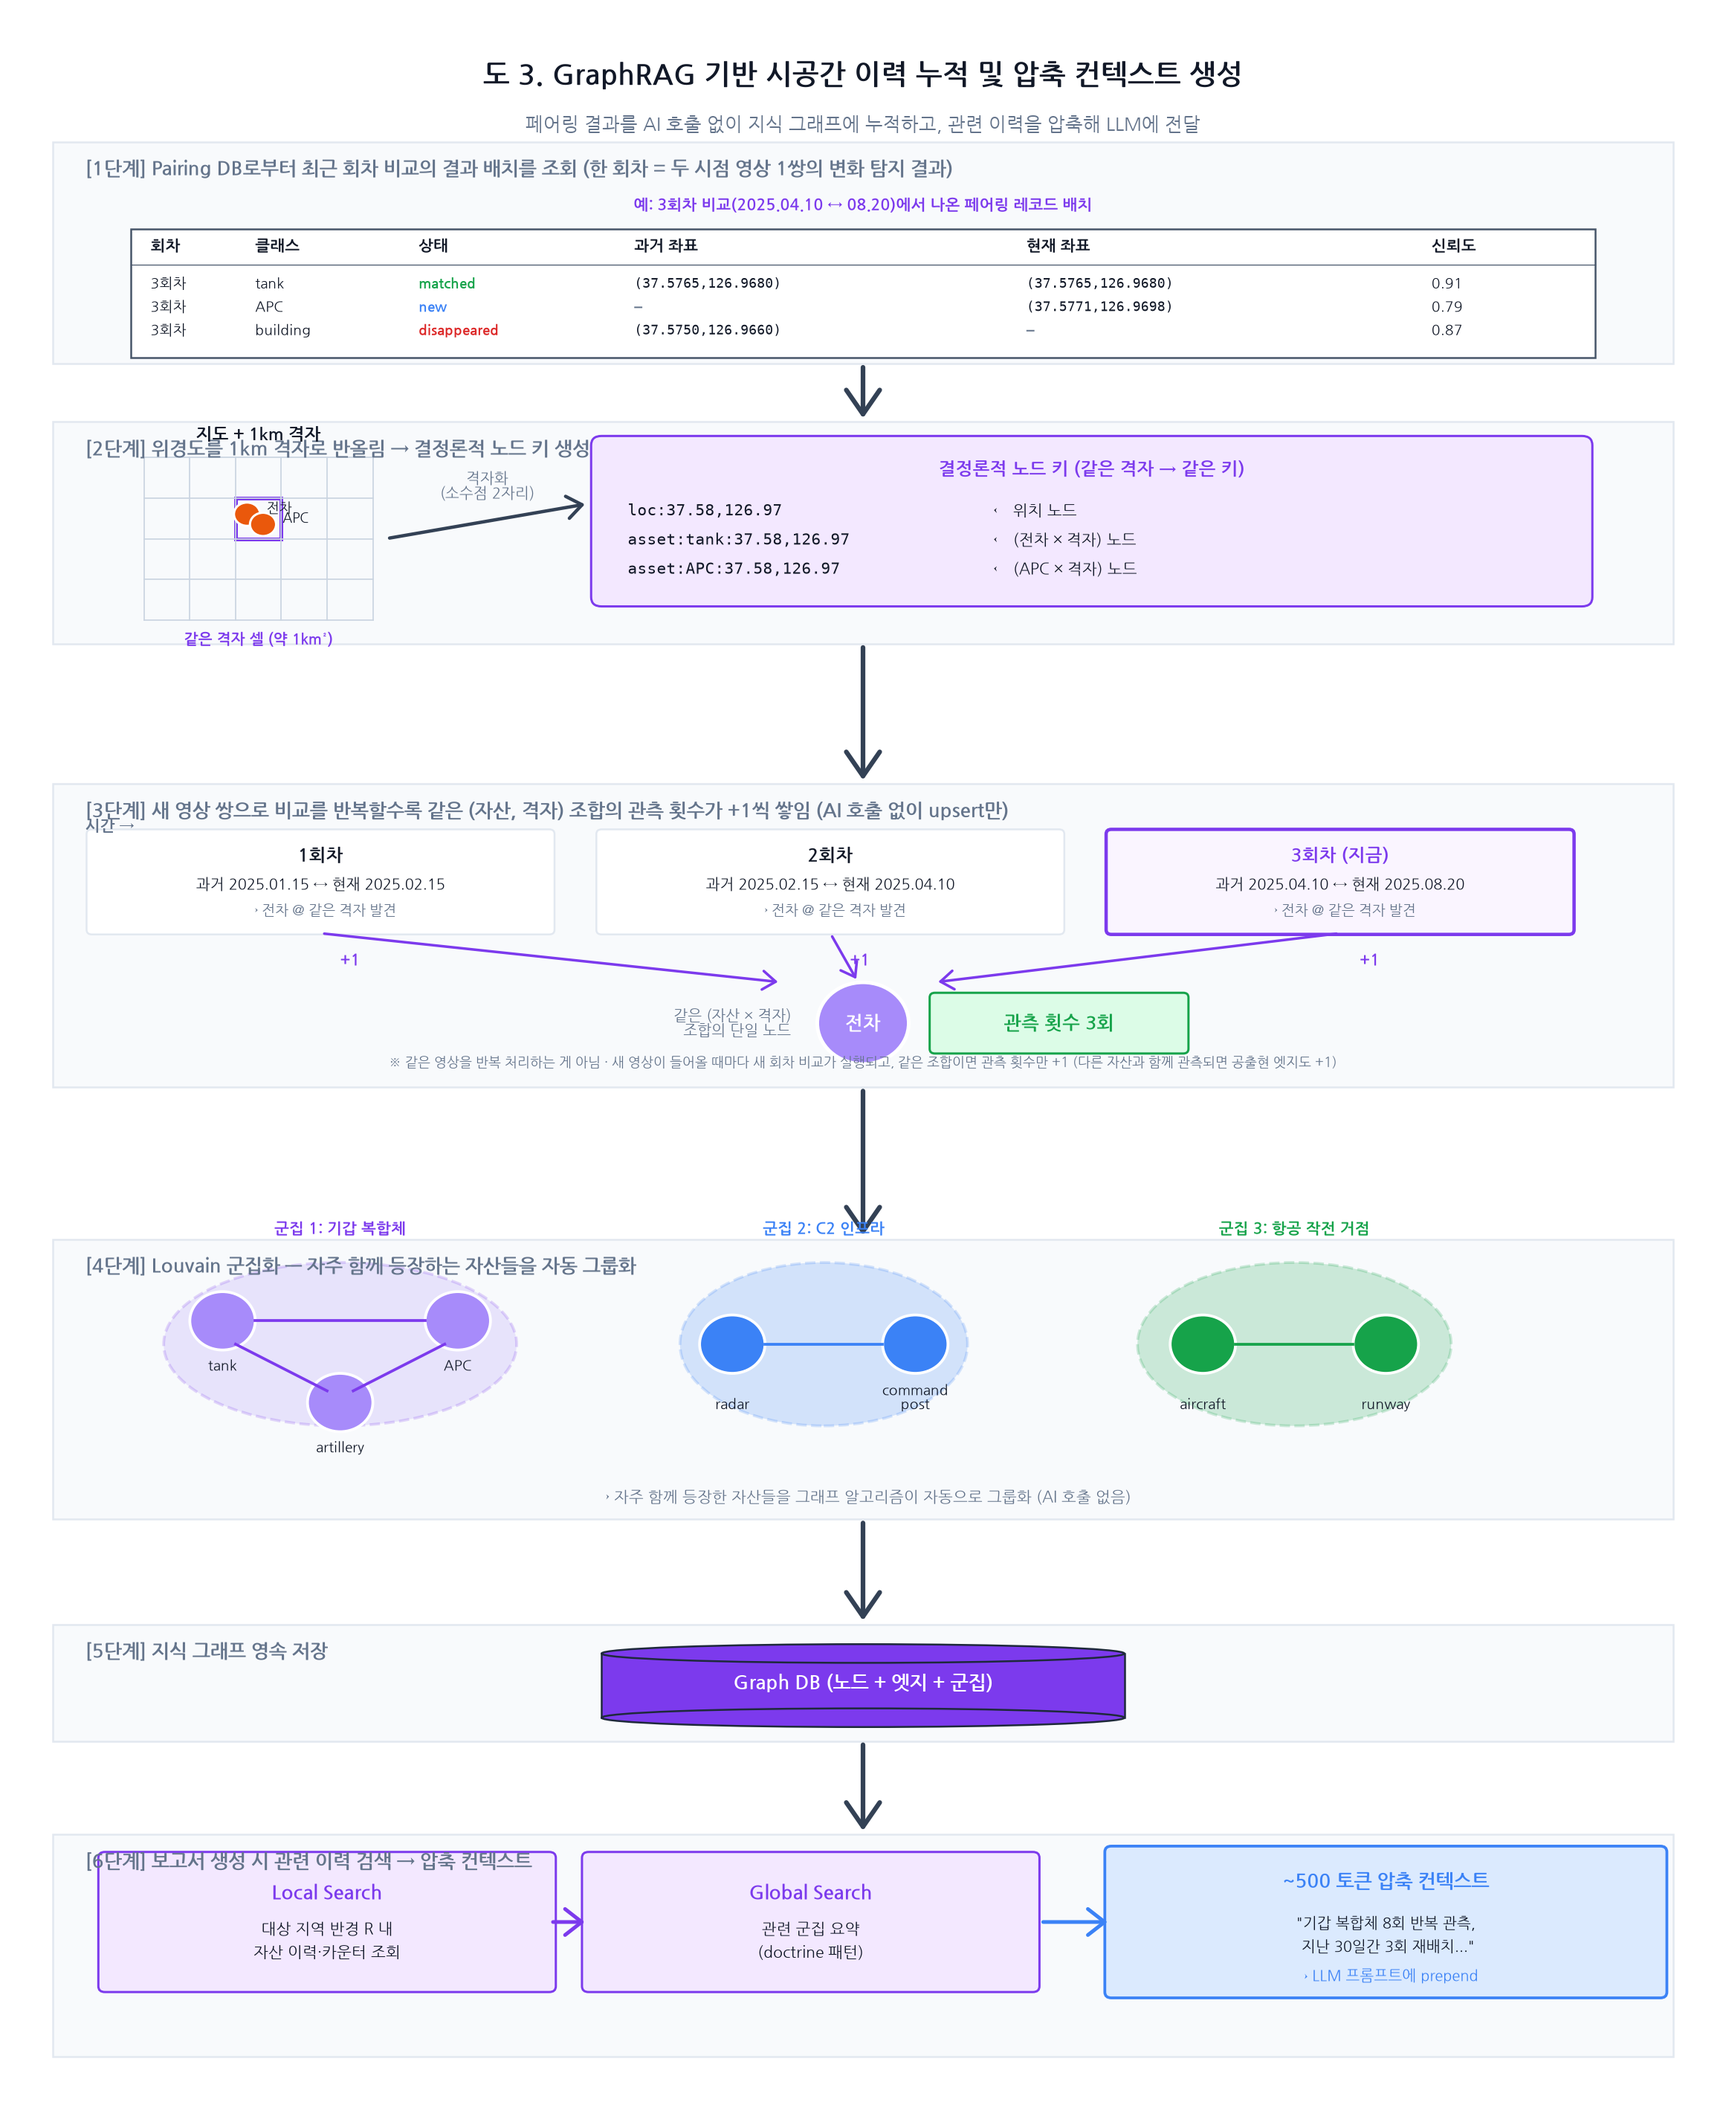
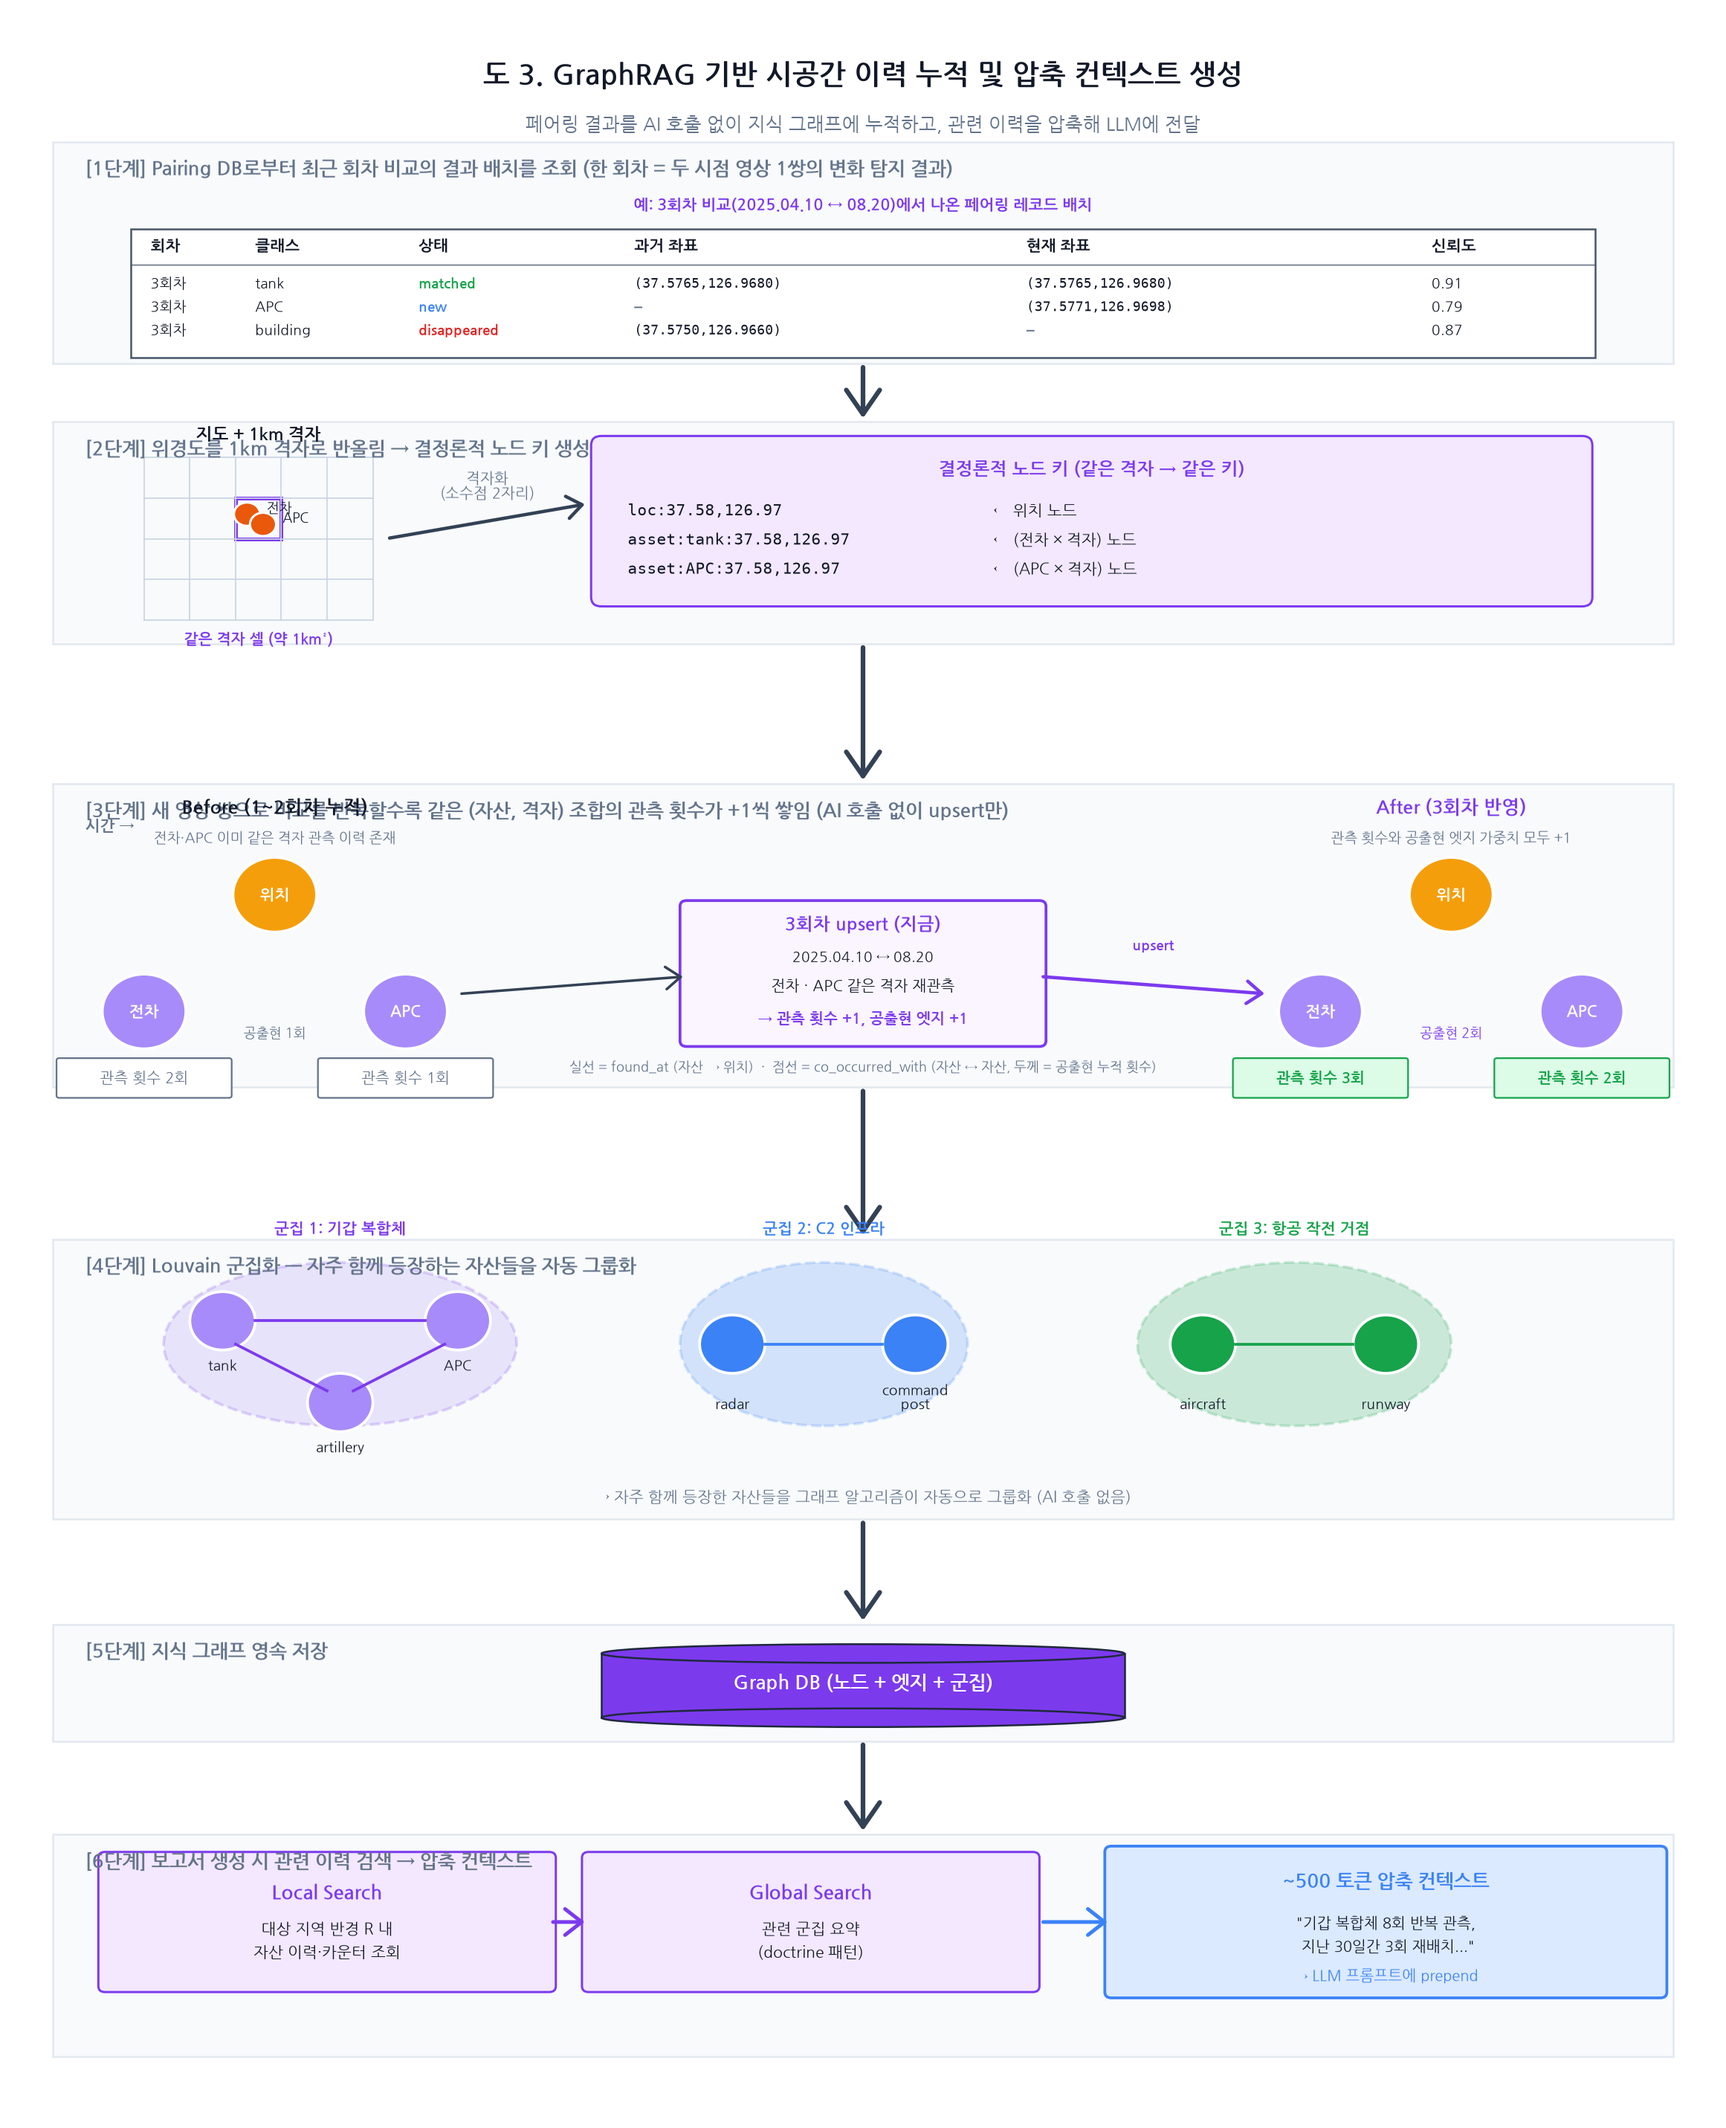
fig3 v2: 3단계를 그래프 형태 Before/After로 재설계 (공출현 시맨틱 정확)
이전 타임라인 카드 구조는 회차 누적은 잘 보이지만 그래프 노드/엣지
구조가 직관적으로 드러나지 않는다는 피드백 반영. 그래프 형태로
되돌리되, 이전 Before/After 판본에서 지적된 공출현 엣지 시맨틱
오류(Before에는 없다가 After에서만 나타남)는 다음과 같이 교정:

- Before(1~2회차 누적): 위치 노드 + 전차(관측 횟수 2회) + APC(관측 횟수 1회)
  + found_at 실선 + co_occurred_with 점선(공출현 1회, 얇게)
  → 두 자산이 이미 최소 1회 공출현했음이 반영됨
- 중앙: '3회차 upsert (지금)' 이벤트 카드로 이번 회차 관측이 반영되는
  과정을 명시
- After(3회차 반영): 관측 횟수 각각 3회·2회로 증가, 공출현 엣지도
  가중치 2회로 두꺼워지고 강조색 처리
- 하단 범례로 실선/점선 관계 명시

Claude-Session: https://claude.ai/code/session_01Y3sWY7g1ewsnteVCS5FK4B

diff --git a/build_fig3_v2.py b/build_fig3_v2.py
@@ -192,58 +192,125 @@ stage_bg(8.8, 2.6, "3단계",
 ax.text(0.55, 11.0, "시간 →", fontsize=8.5, color=MUTED,
         style="italic", fontweight="bold")
 
-# 3개 회차 카드 (좌→우, 시간순)
-rounds = [
-    (0.6, 4.1,  "1회차",       "과거 2025.01.15 ↔ 현재 2025.02.15"),
-    (4.5, 8.0,  "2회차",       "과거 2025.02.15 ↔ 현재 2025.04.10"),
-    (8.4, 11.9, "3회차 (지금)", "과거 2025.04.10 ↔ 현재 2025.08.20"),
-]
-for x1, x2, round_name, date_range in rounds:
-    is_now = "지금" in round_name
-    fc = "#faf5ff" if is_now else "white"
-    ec = GRAPH if is_now else STAGE_BD
-    lw = 1.8 if is_now else 1.0
-    ax.add_patch(FancyBboxPatch((x1, 10.15), x2-x1, 0.82,
-                                 boxstyle="round,pad=0.04",
-                                 facecolor=fc, edgecolor=ec, lw=lw))
-    ax.text((x1+x2)/2, 10.74, round_name, ha="center", fontsize=9.5,
-            fontweight="bold", color=GRAPH if is_now else TEXT)
-    ax.text((x1+x2)/2, 10.5, date_range, ha="center", fontsize=7.8,
-            color=TEXT)
-    ax.text((x1+x2)/2, 10.28, "→ 전차 @ 같은 격자 발견",
-            ha="center", fontsize=7.5, color=MUTED, style="italic")
+def draw_graph_snapshot(cx, cy, tank_count, apc_count, coocc_weight,
+                        title, subtitle, highlight=False):
+    """(자산 × 격자) 그래프 스냅샷을 그린다.
+    tank_count / apc_count : 관측 횟수
+    coocc_weight : 공출현 엣지 가중치 (0이면 엣지 생략)
+    """
+    # 스냅샷 제목
+    tcolor = GRAPH if highlight else TEXT
+    ax.text(cx, cy + 1.55, title, ha="center", fontsize=10,
+            fontweight="bold", color=tcolor)
+    ax.text(cx, cy + 1.3, subtitle, ha="center", fontsize=7.5,
+            color=MUTED, style="italic")
 
-# 각 카드 → 중앙 노드로 하강 화살표 + "+1" 라벨
-node_x, node_y = 6.5, 9.35
-for x1, x2, *_ in rounds:
-    cx = (x1+x2)/2
-    ax.add_patch(FancyArrowPatch((cx, 10.12),
-                                  (node_x + (cx-node_x)*0.15, node_y+0.35),
-                                  arrowstyle="->,head_length=7,head_width=5",
-                                  color=GRAPH, lw=1.4))
-    ax.text(cx + 0.15, 9.85, "+1", fontsize=8.5, color=GRAPH,
-            fontweight="bold")
+    # 위치 노드 (상단)
+    loc_y = cy + 0.85
+    ax.add_patch(Circle((cx, loc_y), 0.32, facecolor=NODE_L,
+                        edgecolor="white", lw=1.5))
+    ax.text(cx, loc_y, "위치", ha="center", va="center",
+            fontsize=8.5, fontweight="bold", color="white")
 
-# 중앙 노드 (같은 노드가 매 회차마다 갱신됨)
-ax.add_patch(Circle((node_x, node_y), 0.35, facecolor=NODE_A,
-                    edgecolor="white", lw=2))
-ax.text(node_x, node_y, "전차", ha="center", va="center", fontsize=10,
-        fontweight="bold", color="white")
-# 노드 왼쪽 설명
-ax.text(node_x - 0.55, node_y,
-        "같은 (자산 × 격자)\n조합의 단일 노드",
-        ha="right", va="center", fontsize=7.8, color=MUTED, style="italic")
-# 노드 오른쪽 관측 횟수 강조 뱃지
-ax.add_patch(FancyBboxPatch((node_x+0.55, node_y-0.22), 1.9, 0.44,
-                             boxstyle="round,pad=0.04",
-                             facecolor="#dcfce7", edgecolor=GREEN, lw=1.2))
-ax.text(node_x+1.5, node_y, "관측 횟수 3회", ha="center", va="center",
-        fontsize=10, fontweight="bold", color=GREEN)
+    # 자산 노드 2개 (하단)
+    tank_x = cx - 1.0
+    apc_x  = cx + 1.0
+    asset_y = cy - 0.15
 
-# 하단 note
-ax.text(6.5, 8.98,
-        "※ 같은 영상을 반복 처리하는 게 아님 · 새 영상이 들어올 때마다 새 회차 비교가 실행되고, "
-        "같은 조합이면 관측 횟수만 +1 (다른 자산과 함께 관측되면 공출현 엣지도 +1)",
+    ax.add_patch(Circle((tank_x, asset_y), 0.32, facecolor=NODE_A,
+                        edgecolor="white", lw=1.5))
+    ax.text(tank_x, asset_y, "전차", ha="center", va="center",
+            fontsize=8.5, fontweight="bold", color="white")
+    # 관측 횟수 뱃지
+    badge_c = "#dcfce7" if highlight else "white"
+    badge_ec = GREEN if highlight else MUTED
+    txt_c = GREEN if highlight else MUTED
+    fw = "bold" if highlight else "normal"
+    ax.add_patch(FancyBboxPatch((tank_x-0.65, asset_y-0.72), 1.3, 0.3,
+                                 boxstyle="round,pad=0.02",
+                                 facecolor=badge_c, edgecolor=badge_ec, lw=0.9))
+    ax.text(tank_x, asset_y-0.57, f"관측 횟수 {tank_count}회",
+            ha="center", va="center", fontsize=7.8, color=txt_c,
+            fontweight=fw)
+
+    ax.add_patch(Circle((apc_x, asset_y), 0.32, facecolor=NODE_A,
+                        edgecolor="white", lw=1.5))
+    ax.text(apc_x, asset_y, "APC", ha="center", va="center",
+            fontsize=8.5, fontweight="bold", color="white")
+    ax.add_patch(FancyBboxPatch((apc_x-0.65, asset_y-0.72), 1.3, 0.3,
+                                 boxstyle="round,pad=0.02",
+                                 facecolor=badge_c, edgecolor=badge_ec, lw=0.9))
+    ax.text(apc_x, asset_y-0.57, f"관측 횟수 {apc_count}회",
+            ha="center", va="center", fontsize=7.8, color=txt_c,
+            fontweight=fw)
+
+    # found_at 엣지 (자산 → 위치, 실선)
+    edge_lw_base = 1.2 + coocc_weight * 0.35
+    ax.plot([tank_x + 0.22, cx - 0.24], [asset_y + 0.22, loc_y - 0.24],
+            color=GRAPH if highlight else MUTED,
+            lw=edge_lw_base, zorder=0)
+    ax.plot([apc_x - 0.22, cx + 0.24], [asset_y + 0.22, loc_y - 0.24],
+            color=GRAPH if highlight else MUTED,
+            lw=edge_lw_base, zorder=0)
+
+    # co_occurred_with 엣지 (자산 ↔ 자산, 점선, 가중치에 따라 두께)
+    if coocc_weight > 0:
+        coocc_lw = 1.0 + coocc_weight * 0.7
+        ax.plot([tank_x + 0.32, apc_x - 0.32], [asset_y, asset_y],
+                color=GRAPH if highlight else MUTED,
+                lw=coocc_lw, linestyle="--", zorder=0)
+        ax.text(cx, asset_y - 0.22,
+                f"공출현 {coocc_weight}회",
+                ha="center", fontsize=7,
+                color=GRAPH if highlight else MUTED, style="italic")
+
+
+# ─── 좌: Before (1~2회차 누적) ───
+draw_graph_snapshot(cx=2.0, cy=9.6,
+                    tank_count=2, apc_count=1, coocc_weight=1,
+                    title="Before (1~2회차 누적)",
+                    subtitle="전차·APC 이미 같은 격자 관측 이력 존재",
+                    highlight=False)
+
+# ─── 중앙: 3회차 upsert 이벤트 ───
+mid_x = 6.5
+# 이벤트 카드
+ax.add_patch(FancyBboxPatch((mid_x - 1.35, 9.2), 2.7, 1.15,
+                             boxstyle="round,pad=0.05",
+                             facecolor="#faf5ff", edgecolor=GRAPH, lw=1.5))
+ax.text(mid_x, 10.15, "3회차 upsert (지금)",
+        ha="center", fontsize=9.5, fontweight="bold", color=GRAPH)
+ax.text(mid_x, 9.88, "2025.04.10 ↔ 08.20",
+        ha="center", fontsize=7.5, color=TEXT)
+ax.text(mid_x, 9.63,
+        "전차 · APC 같은 격자 재관측",
+        ha="center", fontsize=8, color=TEXT)
+ax.text(mid_x, 9.35,
+        "→ 관측 횟수 +1, 공출현 엣지 +1",
+        ha="center", fontsize=8, color=GRAPH,
+        fontweight="bold", style="italic")
+
+# 좌→중앙 화살표
+ax.add_patch(FancyArrowPatch((3.4, 9.6), (5.15, 9.75),
+                              arrowstyle="->,head_length=8,head_width=6",
+                              color="#334155", lw=1.4))
+# 중앙→우 화살표
+ax.add_patch(FancyArrowPatch((7.85, 9.75), (9.6, 9.6),
+                              arrowstyle="->,head_length=8,head_width=6",
+                              color=GRAPH, lw=1.8))
+ax.text(8.72, 9.98, "upsert", ha="center", fontsize=7.5,
+        color=GRAPH, fontweight="bold", style="italic")
+
+# ─── 우: After (3회차 반영) ───
+draw_graph_snapshot(cx=11.0, cy=9.6,
+                    tank_count=3, apc_count=2, coocc_weight=2,
+                    title="After (3회차 반영)",
+                    subtitle="관측 횟수와 공출현 엣지 가중치 모두 +1",
+                    highlight=True)
+
+# 하단 범례
+ax.text(6.5, 8.94,
+        "실선 = found_at (자산 → 위치)  ·  점선 = co_occurred_with (자산 ↔ 자산, 두께 = 공출현 누적 횟수)",
         ha="center", fontsize=7.3, color=MUTED, style="italic")
 
 arrow_down(6.5, 8.8, 7.5)
